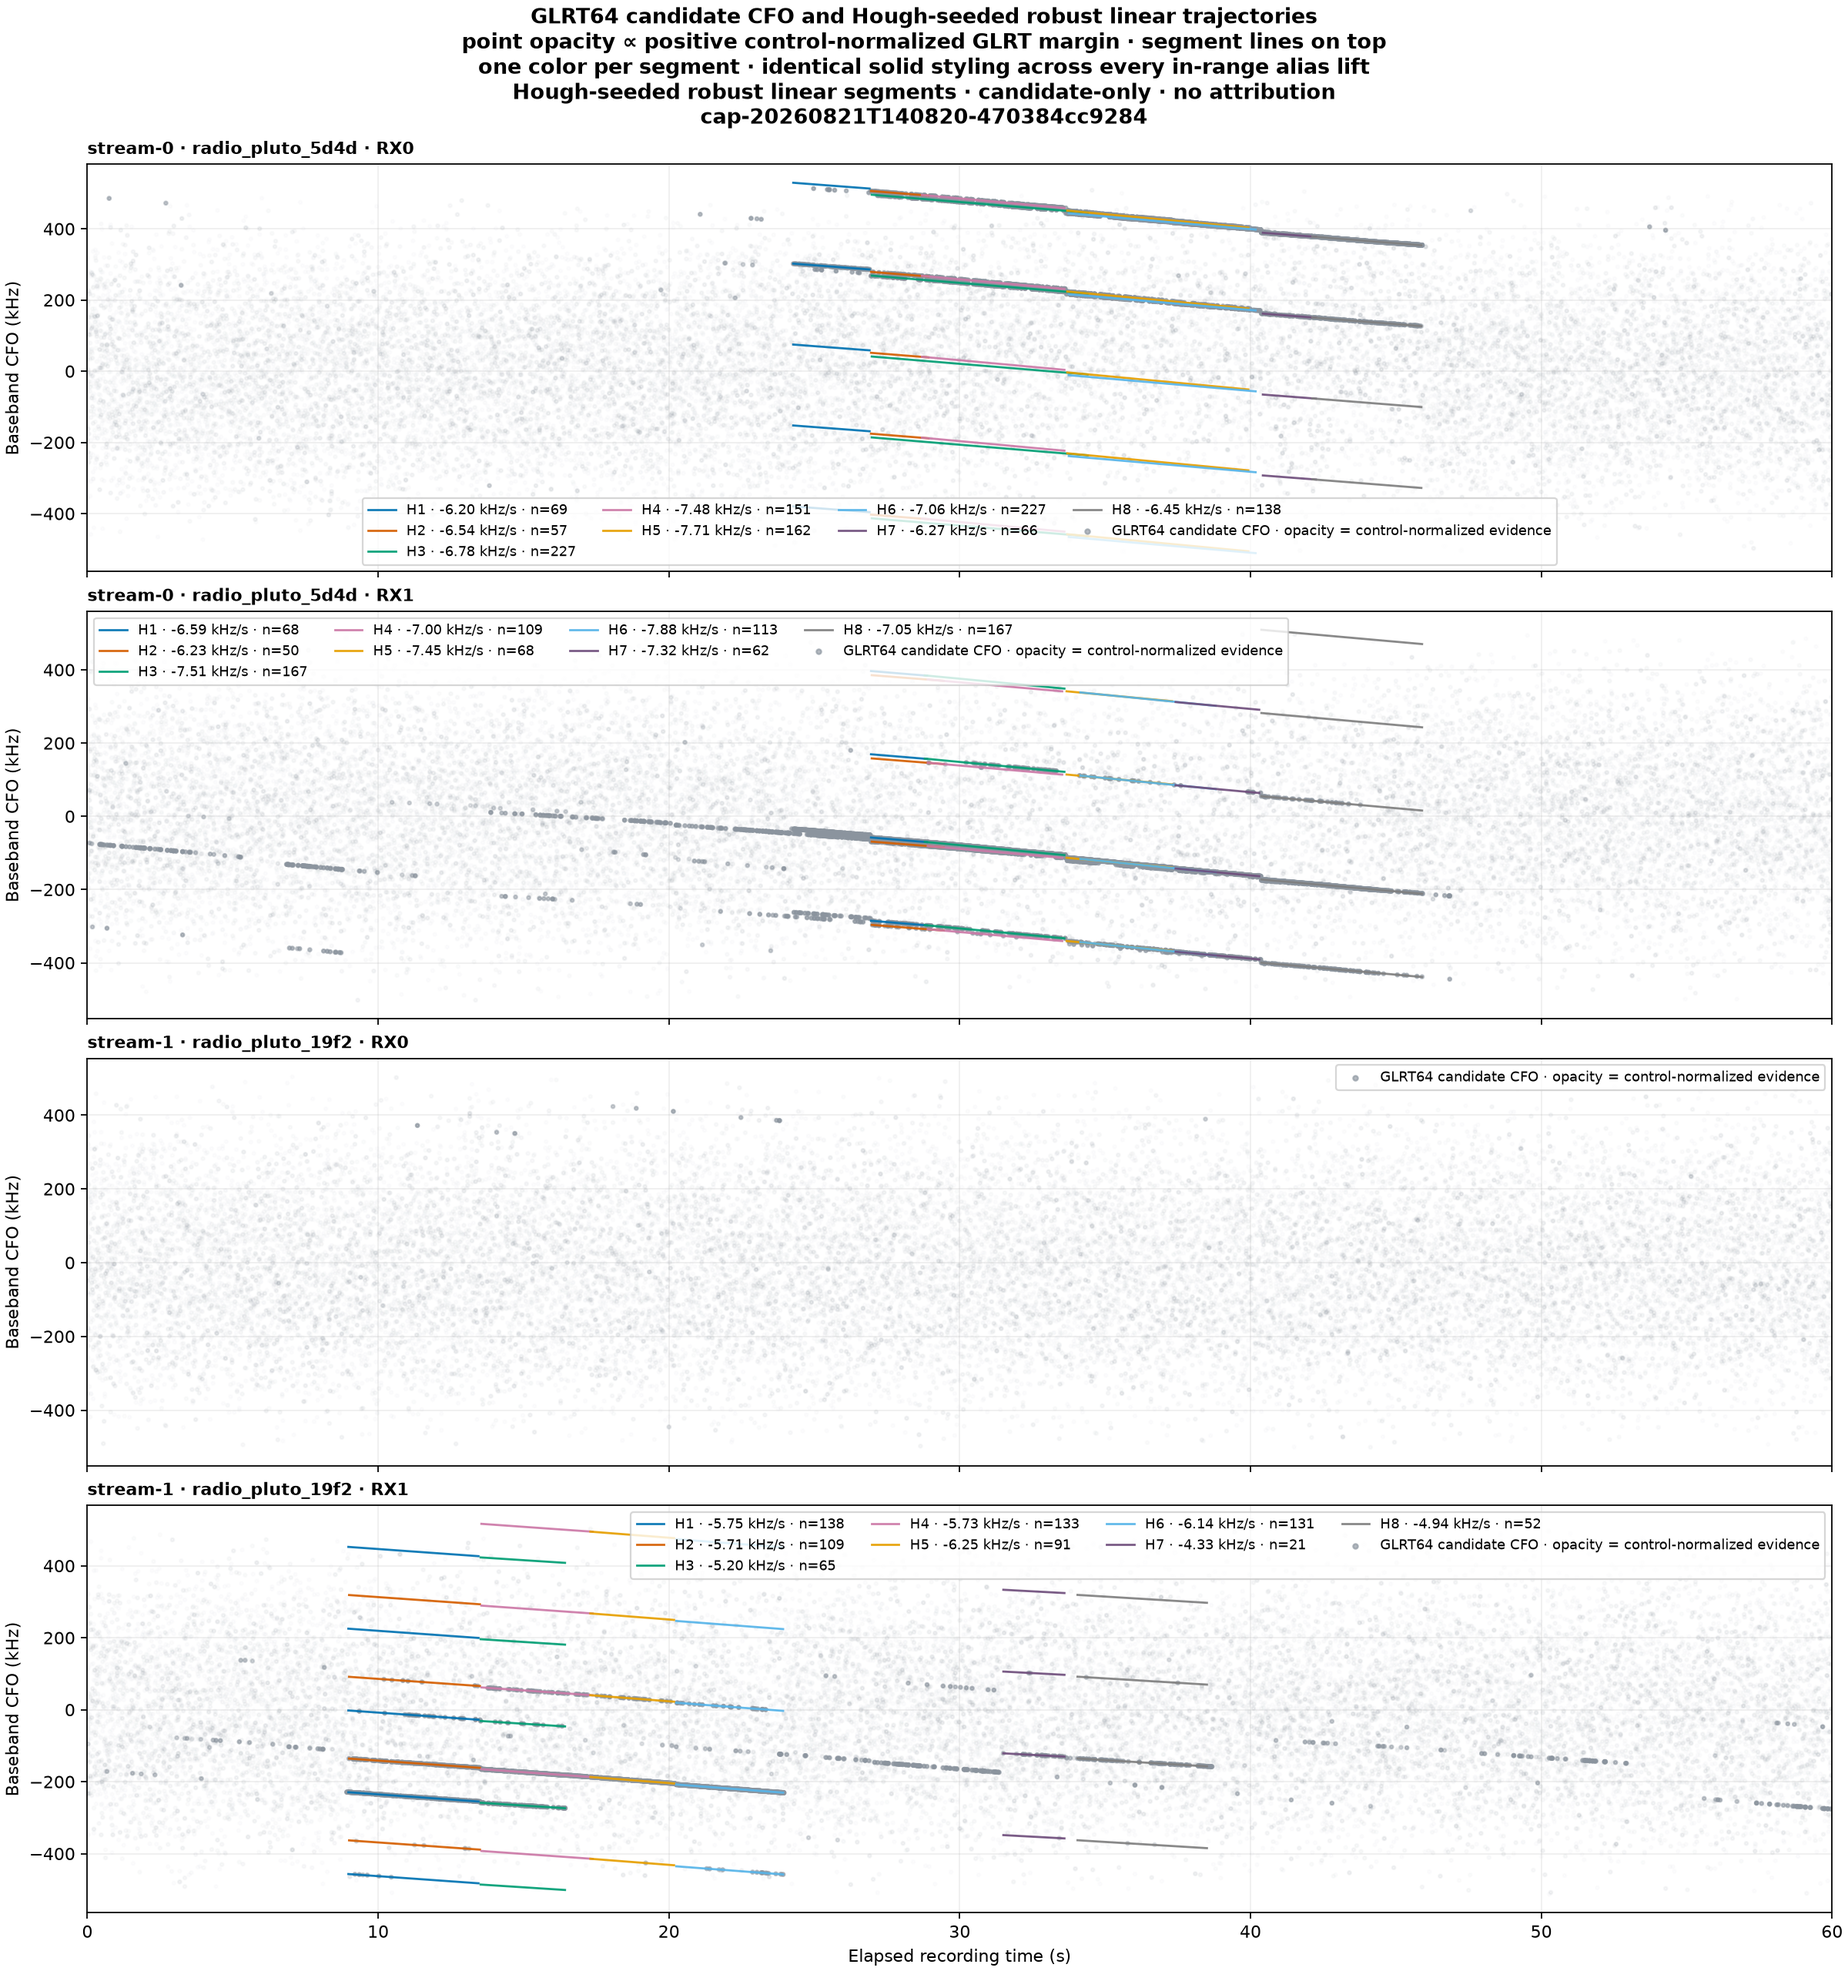
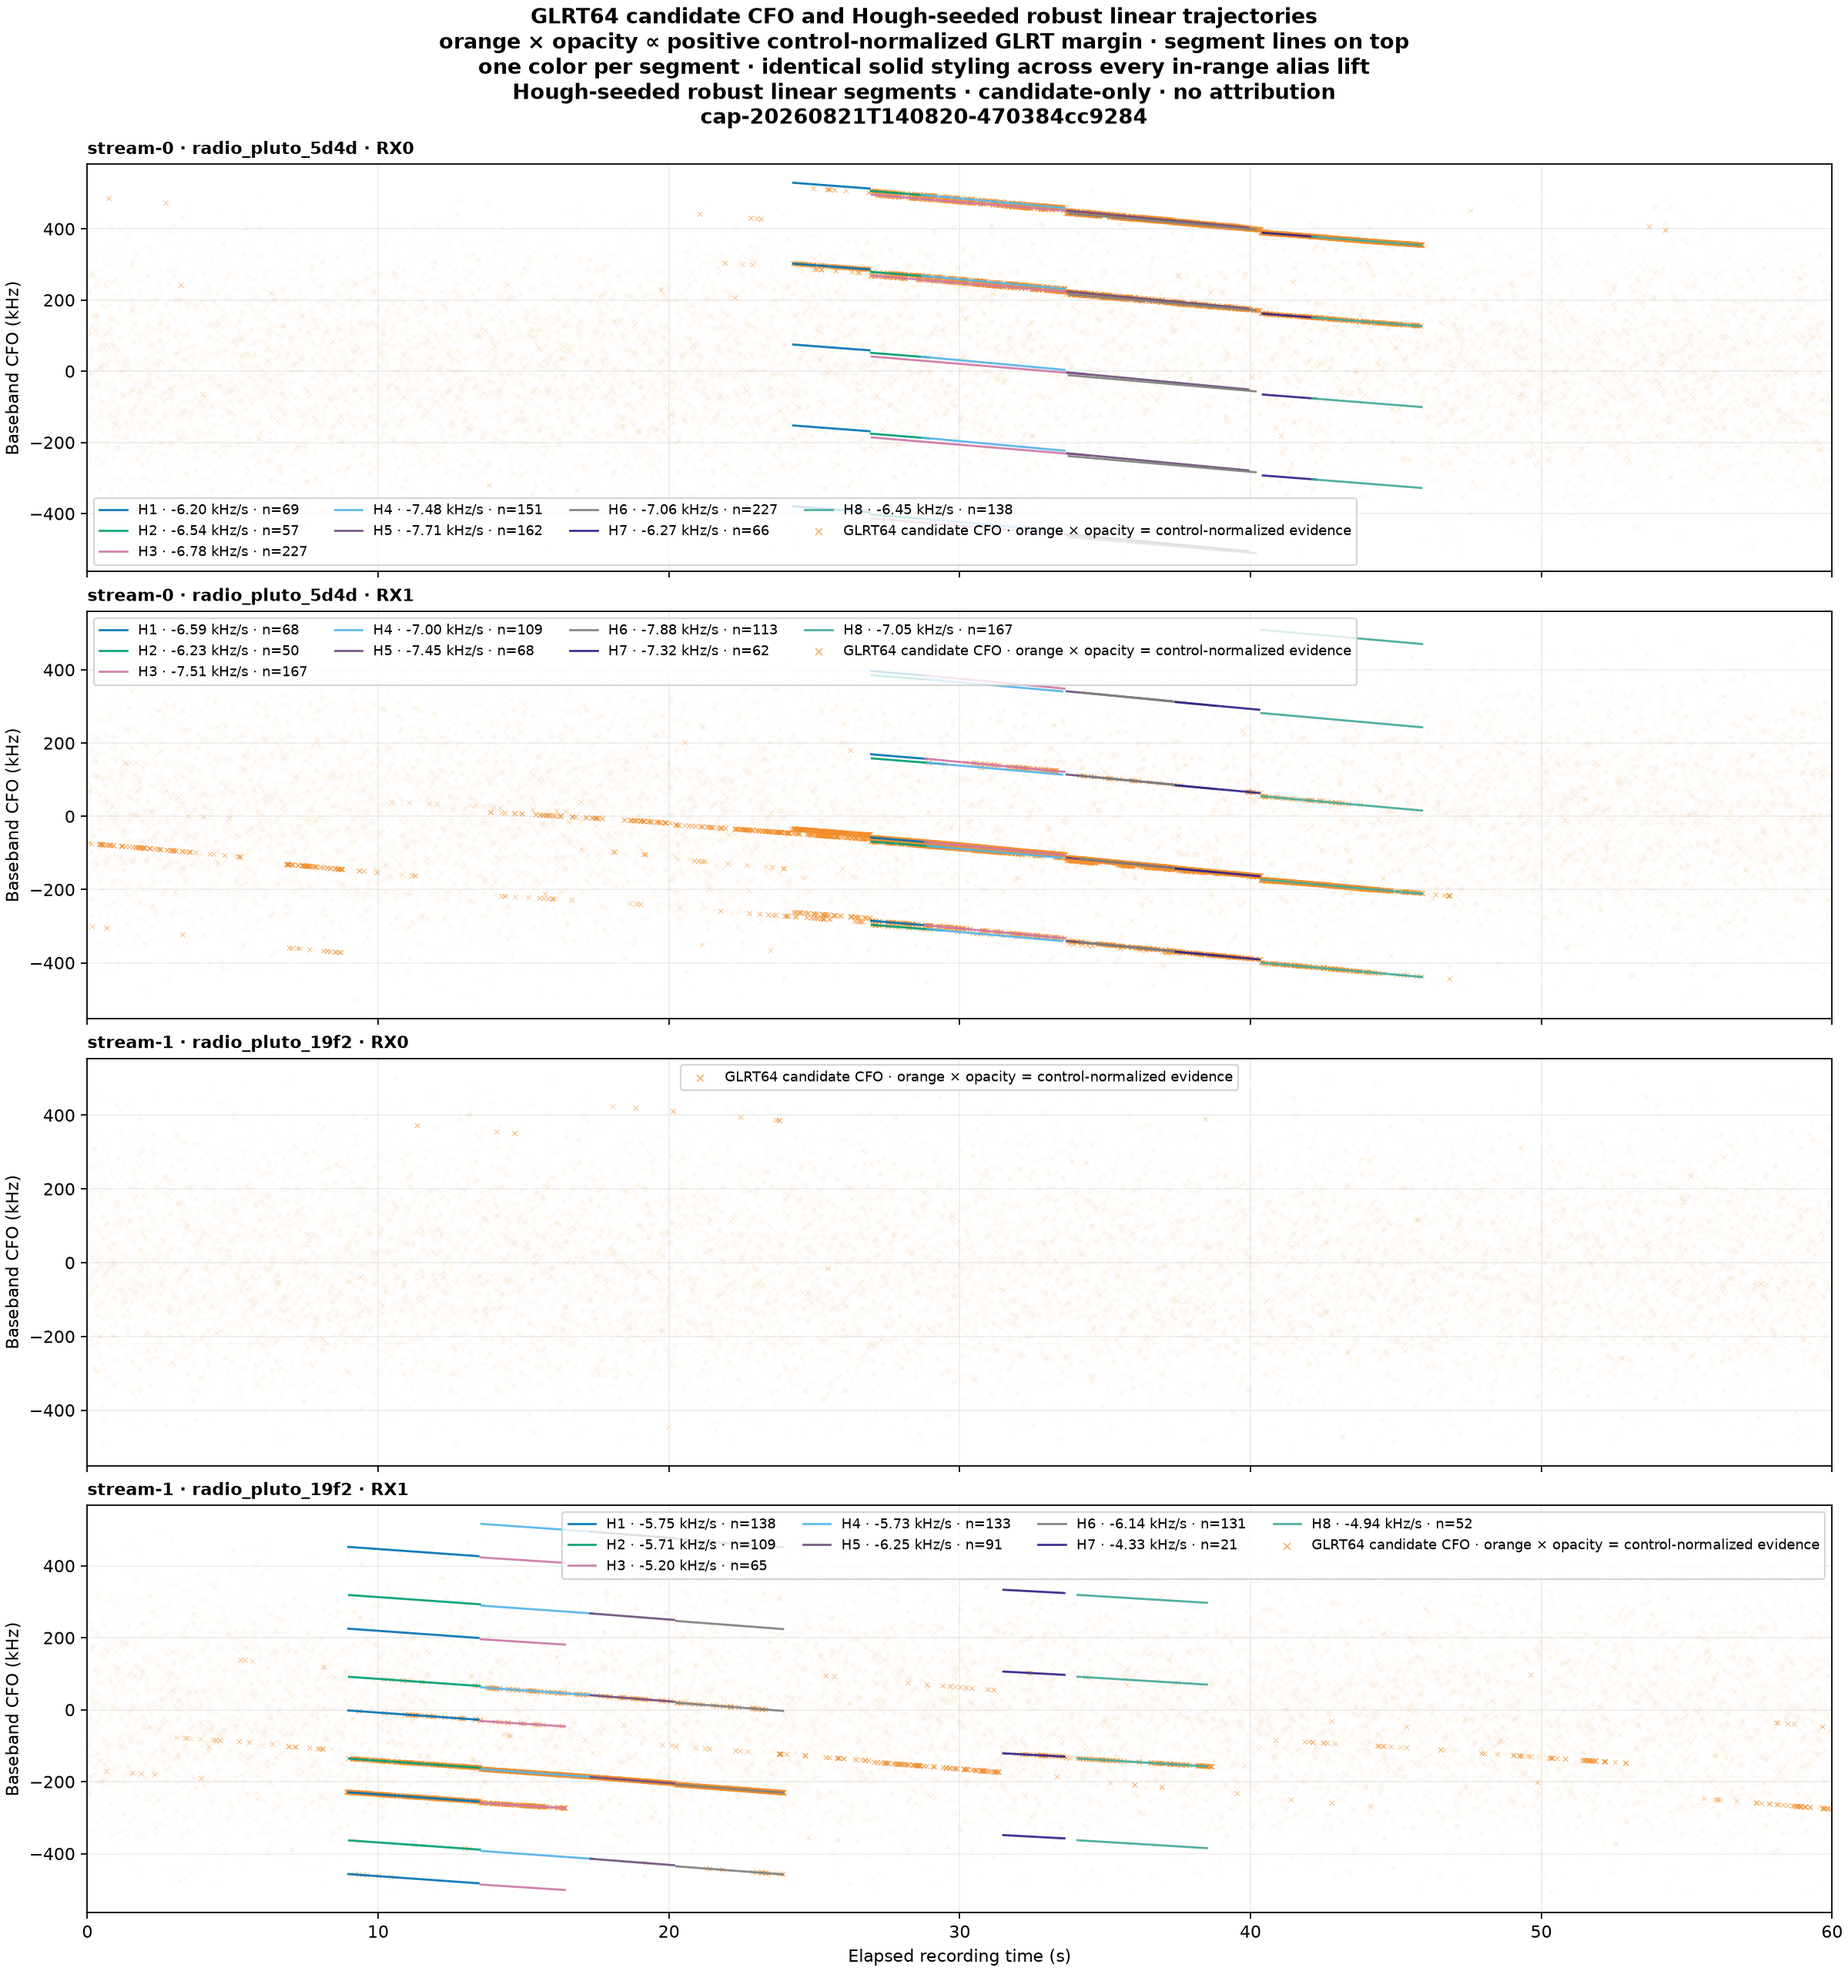
Reserve orange X markers for GLRT evidence

diff --git a/src/leo/presentation/standard_png.py b/src/leo/presentation/standard_png.py
@@ -20,15 +20,16 @@ from leo.presentation.standard_pipeline import StandardPlotViewV2, StandardViewK
 
 _RENDER_LOCK = RLock()
 _LANE_COLORS = ("#00a6d6", "#f28e2b", "#8e5bb7", "#59a14f")
+_GLRT_EVIDENCE_COLOR = "#f28e2b"
 _SEGMENT_COLORS = (
     "#0072b2",
-    "#d55e00",
     "#009e73",
     "#cc79a7",
-    "#e69f00",
     "#56b4e9",
     "#6f4e7c",
     "#7f7f7f",
+    "#332288",
+    "#44aa99",
 )
 _DEGREE_STYLES = {1: "--", 2: "-.", 3: "-"}
 
@@ -351,7 +352,7 @@ def _render_full_cfo_trajectories(source: StandardPngSource) -> bytes:
         raw_lower_hz = min(observation_cfo, default=-500.0) * 1_000.0
         raw_upper_hz = max(observation_cfo, default=500.0) * 1_000.0
         point_colors = np.tile(
-            np.asarray(matplotlib.colors.to_rgba("#8b949e")),
+            np.asarray(matplotlib.colors.to_rgba(_GLRT_EVIDENCE_COLOR)),
             (len(observation_opacity), 1),
         )
         if observation_opacity:
@@ -359,8 +360,10 @@ def _render_full_cfo_trajectories(source: StandardPngSource) -> bytes:
         axis.scatter(
             observation_times,
             observation_cfo,
-            s=4,
+            s=8,
             color=point_colors,
+            marker="x",
+            linewidths=0.45,
             rasterized=True,
             zorder=1,
         )
@@ -401,10 +404,12 @@ def _render_full_cfo_trajectories(source: StandardPngSource) -> bytes:
         axis.scatter(
             [],
             [],
-            s=8,
-            color="#8b949e",
+            s=16,
+            color=_GLRT_EVIDENCE_COLOR,
+            marker="x",
+            linewidths=0.8,
             alpha=0.65,
-            label="GLRT64 candidate CFO · opacity = control-normalized evidence",
+            label="GLRT64 candidate CFO · orange × opacity = control-normalized evidence",
         )
         axis.set_title(path.label, loc="left", fontsize=10, fontweight="bold")
         axis.set_ylabel("Baseband CFO (kHz)")
@@ -417,7 +422,7 @@ def _render_full_cfo_trajectories(source: StandardPngSource) -> bytes:
     axes[-1].set_xlabel("Elapsed recording time (s)")
     figure.suptitle(
         "GLRT64 candidate CFO and Hough-seeded robust linear trajectories\n"
-        "point opacity ∝ positive control-normalized GLRT margin · segment lines on top\n"
+        "orange × opacity ∝ positive control-normalized GLRT margin · segment lines on top\n"
         "one color per segment · identical solid styling across every in-range alias lift\n"
         "Hough-seeded robust linear segments · candidate-only · no attribution\n"
         f"{source.session_id}",

diff --git a/tests/presentation/test_standard_png_geometry.py b/tests/presentation/test_standard_png_geometry.py
@@ -2,6 +2,8 @@ import numpy as np
 
 from leo.presentation.standard_pipeline import StandardViewKindV2
 from leo.presentation.standard_png import (
+    _GLRT_EVIDENCE_COLOR,
+    _SEGMENT_COLORS,
     StandardPngPathSource,
     StandardPngSource,
     _dealiased_plot_rows,
@@ -187,6 +189,11 @@ def test_raw_hough_png_point_opacity_uses_bounded_hough_evidence_weight() -> Non
         0.02 + 0.93 * np.log1p(0.5) / np.log1p(16.0),
     )
     assert np.isclose(_glrt_point_opacity({"margin": 1.0, "control_score": 0.02}), 0.95)
+
+
+def test_raw_hough_png_reserves_orange_for_glrt_evidence() -> None:
+    assert _GLRT_EVIDENCE_COLOR == "#f28e2b"
+    assert _GLRT_EVIDENCE_COLOR not in _SEGMENT_COLORS
 
 
 def test_raw_hough_png_renders_colored_alias_family_and_observations() -> None:
